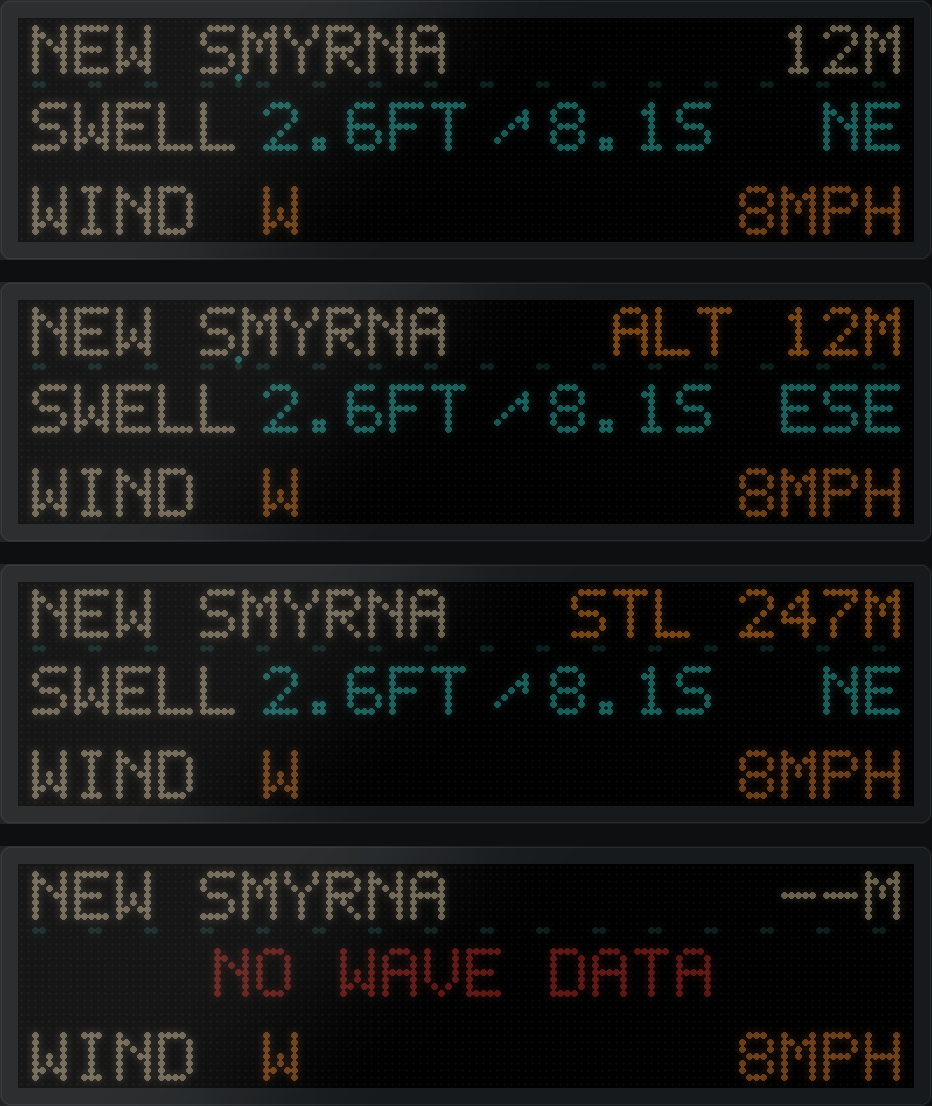
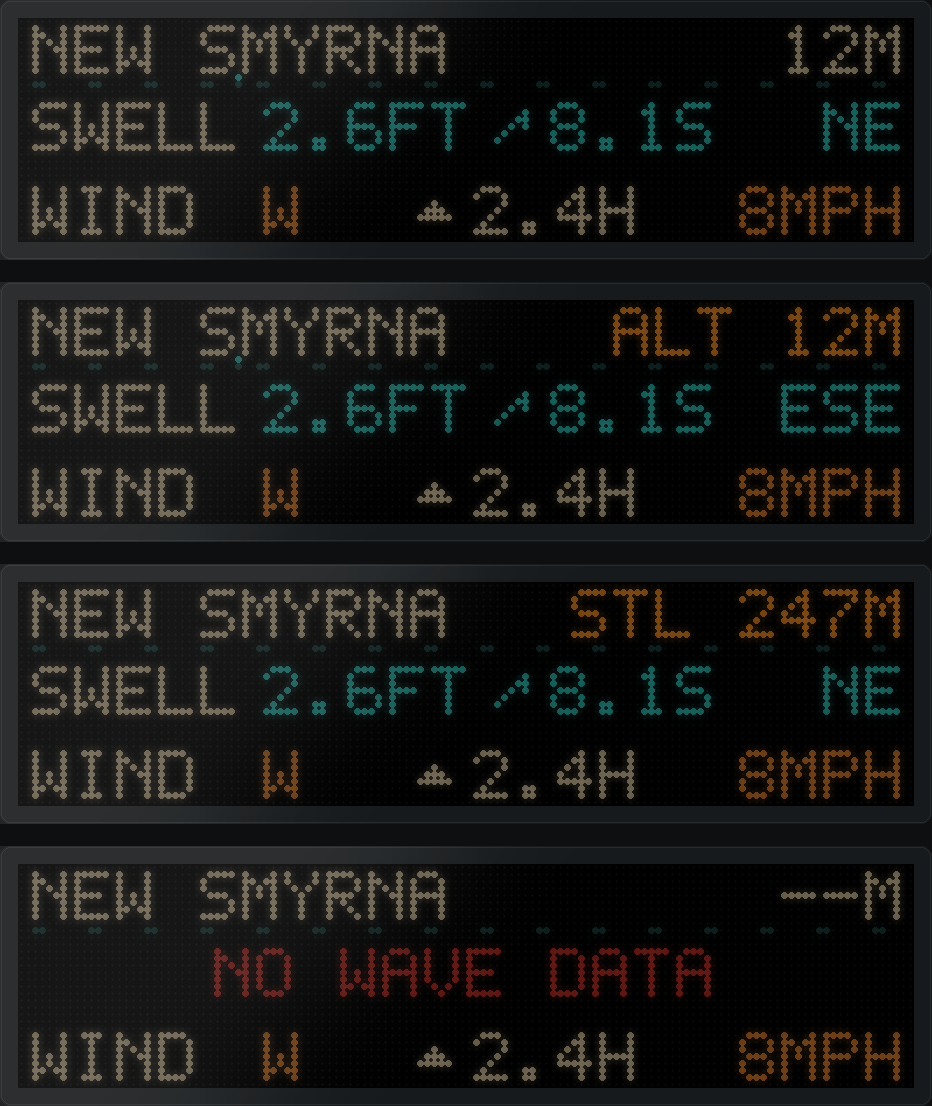
Show tide on the wind row
Tide occupies the gap between wind direction and speed, which had 39px free.
A solid triangle marks rising or falling and the hours to the next extreme
follow it, so a glance answers both "which way" and "how long until it turns".

Tide is the one predicted value allowed on an otherwise measured face.
Astronomical extremes are computed from harmonic constituents years ahead and
do not miss the way a surf forecast does. It still gets its own model rather
than joining wave or wind, is passed to the compact payload separately rather
than through CurrentSnapshot, and is drawn in label-tier warm white rather than
a measurement color.

The marker is a triangle, not a stemmed arrow: at this size a long stem under a
wide head read as a dagger, and a triangle stays clearly distinct from the
diagonal wave-trend mark on the row above.

When no tide source is configured, or when no pair of predicted extremes
brackets the moment, the gap stays empty rather than guessing. Two simulator
states cover falling tide and the absent case.

diff --git a/src/swellsign/display/renderer.py b/src/swellsign/display/renderer.py
@@ -30,6 +30,23 @@ TREND_X = 68
 PERIOD_X = 76
 PERIOD_MAX_X = 106
 
+# Tide sits in the gap on the wind row between direction and speed. It is the
+# one predicted value on an otherwise measured face, so it gets a vertical
+# arrow, deliberately unlike the diagonal wave-trend mark, and the label-tier
+# warm white rather than a measurement color.
+TIDE_ARROW_X = 57
+TIDE_TEXT_X = 65
+TIDE_MAX_X = 91
+
+# A solid triangle rather than a stemmed arrow: at this size a long stem under
+# a wide head reads as a dagger, and the shape stays clearly distinct from the
+# diagonal wave-trend mark on the row above.
+_TIDE_ARROW_UP = (
+    "..#..",
+    ".###.",
+    "#####",
+)
+
 
 def _safe_number(value: float | None, decimals: int = 1) -> str:
     if value is None:
@@ -129,6 +146,23 @@ class DisplayRenderer:
             if 0 <= px < WIDTH and 0 <= py < HEIGHT:
                 pixels[px, py] = color
 
+    def _tide_mark(
+        self,
+        image: Image.Image,
+        rising: bool,
+        *,
+        x: int = TIDE_ARROW_X,
+        y: int = 26,
+    ) -> None:
+        pixels = image.load()
+        color = self._color(self.palette.warm_white)
+        rows = _TIDE_ARROW_UP if rising else tuple(reversed(_TIDE_ARROW_UP))
+        for row_index, bits in enumerate(rows):
+            for column, bit in enumerate(bits):
+                px, py = x + column, y + row_index
+                if bit == "#" and 0 <= px < WIDTH and 0 <= py < HEIGHT:
+                    pixels[px, py] = color
+
     def _status_text(
         self,
         payload: CompactDisplayPayload,
@@ -212,6 +246,16 @@ class DisplayRenderer:
                     pixels[crest_x, 9] = quiet
 
         self._text(image, (MARGIN, 24), "WIND", warm)
+
+        # Tide is astronomical prediction, not measurement. It is shown only
+        # when a pair of predicted extremes brackets now; otherwise the gap
+        # stays empty rather than guessing.
+        if data.tide is not None:
+            self._tide_mark(image, data.tide.state == "rising")
+            hours = data.tide.minutes_to_next_extreme / 60
+            hours_text = f"{hours:.1f}H" if hours < 10 else f"{hours:.0f}H"
+            self._text(image, (TIDE_TEXT_X, 24), hours_text, warm, max_x=TIDE_MAX_X)
+
         if data.wind is None:
             self._text(image, (HEIGHT_X, 24), "--", self._color(self.palette.warning_amber))
         else:

diff --git a/src/swellsign/services/snapshot.py b/src/swellsign/services/snapshot.py
@@ -10,6 +10,7 @@ from ..directions import degrees_to_cardinal, normalize_degrees
 from ..freshness import age_minutes, aggregate_data_state, classify_freshness
 from ..models import (
     CompactDisplayPayload,
+    CompactTide,
     CompactWave,
     CompactWind,
     ComponentSource,
@@ -19,6 +20,7 @@ from ..models import (
     MeasurementBasis,
     SourceRole,
     SpotIdentity,
+    TidePhase,
     TrendSnapshot,
     WaveObservation,
     WaveSnapshot,
@@ -213,11 +215,15 @@ class SnapshotComposer:
 def compact_display_payload(
     snapshot: CurrentSnapshot,
     product_config: ProductConfig | None = None,
+    tide: TidePhase | None = None,
 ) -> CompactDisplayPayload:
     """Project the exact current snapshot into the stable sign contract.
 
     Passing the configuration attaches each component's freshness thresholds so
     a display client can keep classifying correctly while the API is away.
+
+    ``tide`` is supplied separately rather than read from the snapshot, because
+    it is a prediction and deliberately has no place in `CurrentSnapshot`.
     """
 
     def limits_for(component) -> FreshnessLimits | None:
@@ -272,6 +278,15 @@ def compact_display_payload(
         generated_at=snapshot.generated_at,
         wave=wave,
         wind=wind,
+        tide=(
+            None
+            if tide is None
+            else CompactTide(
+                state=tide.state,
+                next_extreme=tide.next_extreme.kind,
+                minutes_to_next_extreme=tide.minutes_to_next_extreme,
+            )
+        ),
         data_state=snapshot.data_state,
         fallback_used=snapshot.fallback_used,
         warnings=snapshot.warnings,

diff --git a/src/swellsign/display/web.py b/src/swellsign/display/web.py
@@ -44,6 +44,8 @@ STATES: dict[str, str] = {
     "partial-wind": "Valid wave, no wind",
     "no-direction": "Missing direction, values retained",
     "no-wave": "No usable wave observation",
+    "falling-tide": "Tide falling toward the next low",
+    "no-tide": "No tide source or no bracketing extremes",
     "offline": "API unreachable, cached payload ageing",
     "long-values": "Wide values and clamped typography",
 }
@@ -73,6 +75,11 @@ def _base_payload() -> dict[str, Any]:
             "observed_at": "2026-07-30T17:38:00Z",
             "age_minutes": 22,
             "freshness": "fresh",
+        },
+        "tide": {
+            "state": "rising",
+            "next_extreme": "high",
+            "minutes_to_next_extreme": 144,
         },
         "data_state": "fresh",
         "fallback_used": False,
@@ -125,6 +132,14 @@ def build_state(state: str, *, now: datetime | None = None) -> tuple[dict[str, A
     elif state == "no-direction":
         payload["wave"]["direction"] = None
         payload["wind"]["direction"] = None
+    elif state == "falling-tide":
+        payload["tide"] = {
+            "state": "falling",
+            "next_extreme": "low",
+            "minutes_to_next_extreme": 47,
+        }
+    elif state == "no-tide":
+        payload["tide"] = None
     elif state == "no-wave":
         payload["wave"] = None
         payload["data_state"] = "partial"

diff --git a/src/swellsign/models.py b/src/swellsign/models.py
@@ -321,6 +321,21 @@ class CompactWind(StrictModel):
     _utc_observed = field_validator("observed_at")(require_utc)
 
 
+class CompactTide(StrictModel):
+    """Tide context for the sign.
+
+    Astronomical prediction, not measurement, which is why it carries its own
+    model rather than joining the wave or wind components. It is the one
+    predicted value allowed on the default face: tide extremes are computed
+    from harmonic constituents years ahead and do not miss the way a surf
+    forecast does.
+    """
+
+    state: Literal["rising", "falling"]
+    next_extreme: Literal["high", "low"]
+    minutes_to_next_extreme: int = Field(ge=0)
+
+
 class CompactDisplayPayload(StrictModel):
     schema_version: Literal[1] = 1
     mode: Literal["observed"] = "observed"
@@ -328,6 +343,7 @@ class CompactDisplayPayload(StrictModel):
     generated_at: datetime
     wave: CompactWave | None = None
     wind: CompactWind | None = None
+    tide: CompactTide | None = None
     data_state: DataState
     fallback_used: bool = False
     warnings: list[str] = Field(default_factory=list)

diff --git a/src/swellsign/api.py b/src/swellsign/api.py
@@ -114,8 +114,15 @@ def create_app(
         response_model=CompactDisplayPayload,
     )
     def display(spot_id: str) -> CompactDisplayPayload:
-        snapshot = _compose_or_404(resolved_composer, spot_id, utc_clock())
-        return compact_display_payload(snapshot, resolved_config)
+        now = utc_clock()
+        snapshot = _compose_or_404(resolved_composer, spot_id, now)
+        # Tide is resolved alongside rather than inside the snapshot: it is a
+        # prediction and must not become part of the observed contract.
+        return compact_display_payload(
+            snapshot,
+            resolved_config,
+            tide=resolved_tide.phase(spot_id, now=_aware_utc(now)),
+        )
 
     @application.get("/v1/spots/{spot_id}/history")
     def history(
